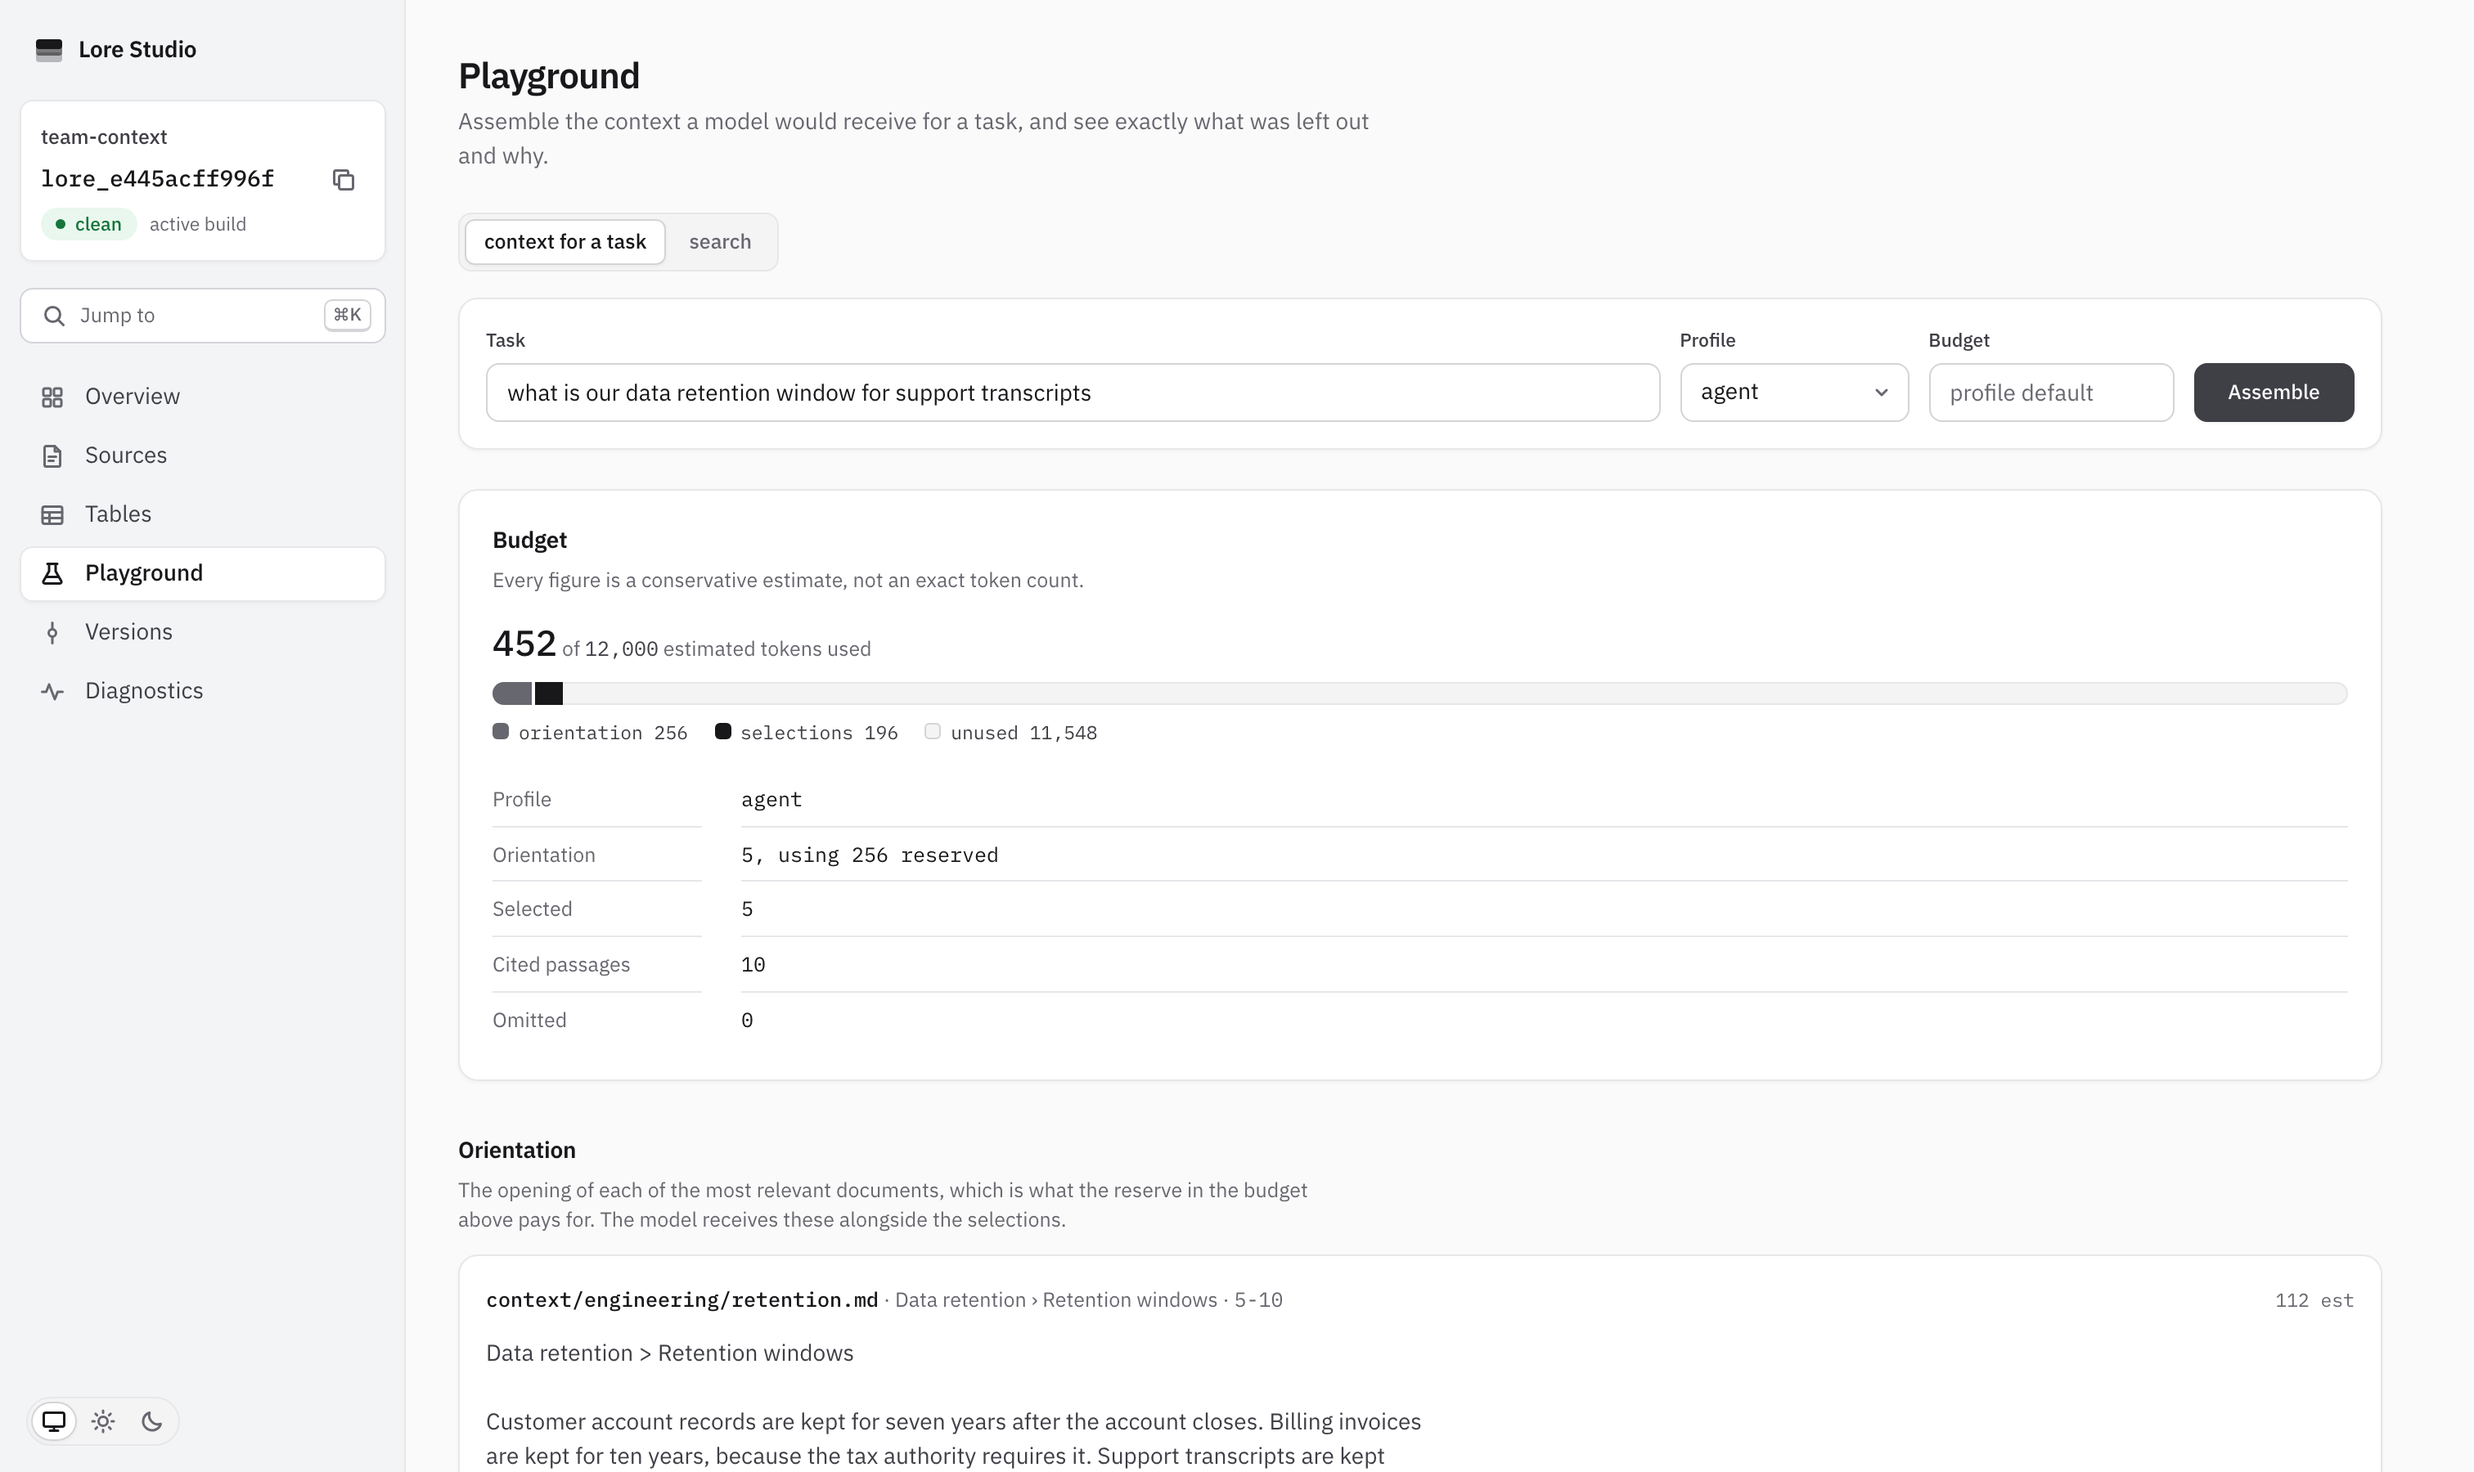
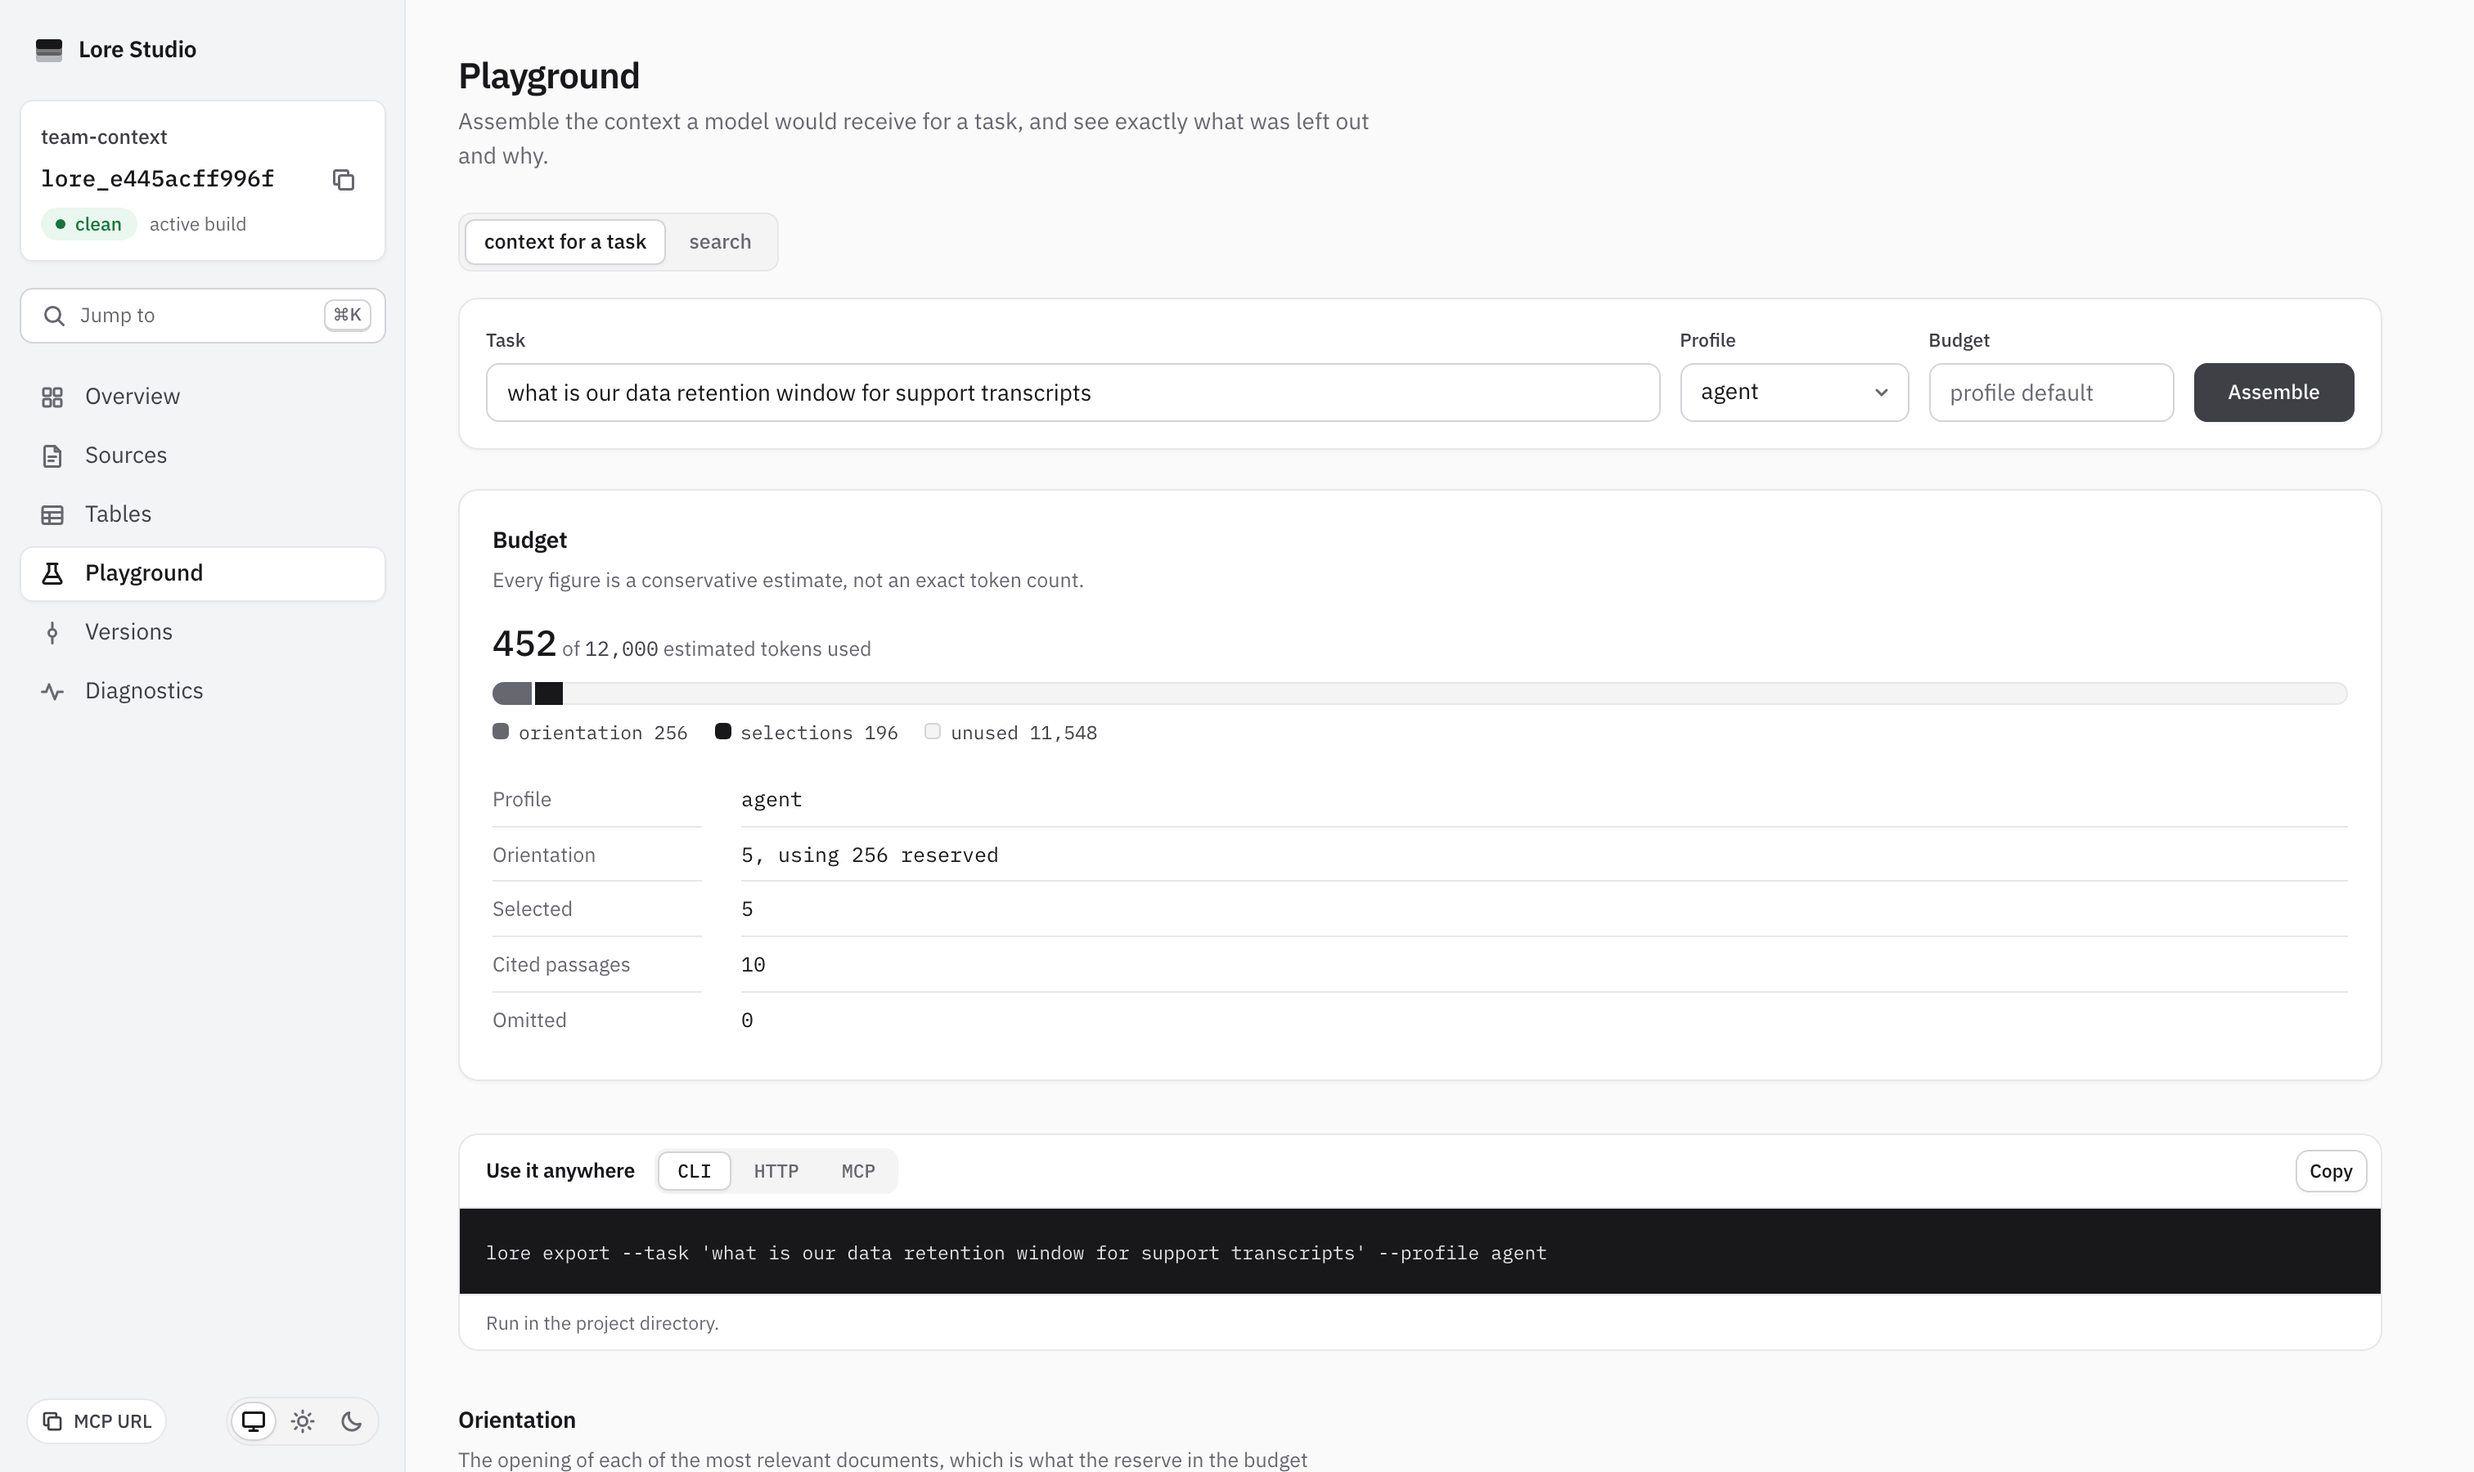
Document the Studio launchpad and retake captures
- the CSS budget rises from 40 to 48 kB for three new surfaces with no
  new dependency, recorded beside the number
- captures add the source reader and show the request equivalents

Changed region(s): [[0.1865, 0.7778, 0.9636, 0.9333], [0.1865, 0.9644, 0.5595, 1.0], [0.0311, 0.9644, 0.0622, 0.9956]]

diff --git a/DESIGN.md b/DESIGN.md
@@ -77,6 +77,11 @@ typography:
     fontFamily: "IBM Plex Sans, ui-sans-serif, system-ui, sans-serif"
     fontSize: "16px"
     fontWeight: 400
+  mono-display:
+    fontFamily: "IBM Plex Mono, ui-monospace, SF Mono, Menlo, Consolas, monospace"
+    fontSize: "26px"
+    fontWeight: 500
+    letterSpacing: "-0.02em"
   mono-id:
     fontFamily: "IBM Plex Mono, ui-monospace, SF Mono, Menlo, Consolas, monospace"
     fontSize: "14px"
@@ -342,13 +347,22 @@ Sits in a 12px framed box. 36px rows with hairline rules, a 34px Sunken Tint hea
 Opened with Cmd-K or Ctrl-K. A 640px sheet, 14vh from the top, over the Scrim, with the overlay shadow. A 52px search row at 16px, grouped options at 38px with a 16px icon, label and mono detail; the highlighted option takes Selection Wash. A Sunken Tint footer carries key hints. The scrim fades in 160ms and the sheet rises 6px from 0.985 scale in 180ms.
 
 ### Budget Tape (signature)
-Playground's accounting drawn to scale: a 10px pill track, reserved tokens in Pewter, selected in Graphite, free space as Raised Tint with an inset line, segments split by a 2px surface gap, and the cut marked with a 1.5px dashed Stale Amber border. A mono legend with the exact figures sits beneath. Built from elements, not SVG.
+Playground's accounting drawn to scale, under a summary line that is the one place the budget and the tokens used are written (used at 22px mono). A 14px pill track, reserved tokens in Pewter, selected in Graphite, free space as Raised Tint with an inset line, segments split by a 2px surface gap, and the cut marked with a 1.5px dashed Stale Amber border. A mono legend with the exact figures sits beneath. Built from elements, not SVG.
 
 ### Confirmation
 Inline under the version it acts on: Clean Sheet, 1px ink frame, 12px radius, overlay shadow, a mono heading naming the build, the plan, and the actions behind a hairline. It enters by moving 4px over 200ms and never fades.
 
 ### Citation
-Path in mono 500, heading path in muted sans, range in muted tabular mono, real-space separators. Inline layout so it wraps on the baseline. The copy button appears on hover or focus, and always on touch.
+Path in mono 500, heading path in muted sans, range in muted tabular mono, real-space separators. Inline layout so it wraps on the baseline. The copy button appears on hover or focus, and always on touch. When the locator names an artifact, the path is a link to Sources with the cited lines marked, underlined in the border tone and in full ink on hover. It never links to the source already open.
+
+### Use It Anywhere (signature)
+Every request Studio makes, shown as the same request three ways: a `lore` CLI line, a `curl` call against this server, and the MCP `tools/call` params. A framed panel with a mono tab strip (CLI, HTTP, MCP), one Copy action, and a code well that is dark in both themes (`--code-bg`), because a command reads as a terminal line. A form with no exact equivalent is left out rather than approximated: table queries and source reads have no CLI tab. The code well is focusable, so a long line can be scrolled by keyboard.
+
+### Source Reader
+The stored text of one file, as a model reads it. A framed, focusable, 480px-tall scroller with a 4.5ch line-number gutter split by a hairline; each line is a two-column row so wrapped text stays beside its number. Cited lines take the Stale Amber wash with an amber number. The gutter is `user-select: none`, so a copied passage is the document.
+
+### Connect Panel and Next Steps
+Overview's launchpad. Next steps are three columns in one panel split by hairlines, never three cards, each a title, one sentence and a small action; the connect step carries a live count badge. The Connect panel lists the MCP and HTTP endpoints as copyable values (no `$` prompt) and `lore mcp` as a command, then one row per detected client with its state badge and a `lore connect` command only where it would do something.
 
 ## Do's and Don'ts
 

diff --git a/docs/studio-tour.md b/docs/studio-tour.md
@@ -18,8 +18,11 @@ For the design rules and accessibility review, see
 
 ## Overview
 
-The active build and source state lead the page. The rest is evidence about a
-sealed build.
+The active build and source state lead the page. Three next steps follow: try a
+task, connect a client, and preview the next build. The Connect panel lists the
+MCP and HTTP endpoints this process serves and one `lore connect` command for
+each installed client that is not yet connected. The MCP URL is also one click
+away in the sidebar.
 
 ![Studio Overview](images/studio-overview.png)
 
@@ -32,10 +35,19 @@ no parser could read are different decisions, and both are named.
 
 ![Studio Sources, showing what was excluded and why](images/studio-excluded.png)
 
+Choosing a file shows its **stored text**: exactly what the build holds and
+what `lore_read_source` returns to a model, with line numbers. Every citation
+elsewhere in Studio links here, with its lines marked.
+
+![Studio source reader, with a cited passage marked](images/studio-reader.png)
+
 ## Context Playground
 
 The passages a model would receive for a task, each with provenance, and every
-omission with the reason it was left out.
+omission with the reason it was left out. **Use it anywhere** shows the same
+request as a `lore export` command, a `curl` call and an MCP `tools/call`, so
+a request tried here can be pasted into a terminal, a script or an agent. The
+Tables console and the source reader offer the same panel.
 
 ![Studio Context Playground](images/studio-playground.png)
 

diff --git a/README.md b/README.md
@@ -128,14 +128,17 @@ path.
 `lore dev` prints a Studio URL: six routes served from static files by the same process that
 serves the API, on the same port, with no toolchain and no network. A sidebar names the active
 build and whether its sources are still fresh; light and dark themes follow your system unless
-you pick one.
+you pick one. Overview is the starting point: the MCP and HTTP endpoints to give your agent, and
+the `lore connect` command for each client installed on your machine.
 
 ![Lore Studio Overview](docs/images/studio-overview.png)
 
 The Playground answers the question that matters most before you trust any of this: **what would
 a model actually receive for this task, and what was left out.** Every passage carries its
 provenance, every omission carries its reason, and a ranking heuristic is labelled as one
-rather than presented as a score of truth.
+rather than presented as a score of truth. Every citation opens the stored text with its lines
+marked, and every request can be copied as the equivalent `lore` command, `curl` call or MCP
+tool call, so nothing tried in Studio has to be retyped to be used elsewhere.
 
 ![Lore Studio Context Playground](docs/images/studio-playground.png)
 

diff --git a/.changeset/studio-launchpad.md b/.changeset/studio-launchpad.md
@@ -1,0 +1,8 @@
+---
+'@lorepack/cli': minor
+---
+
+Lore Studio is now a launchpad for using the build. Overview lists the MCP and HTTP endpoints
+and a `lore connect` command for each installed client; every Playground run, search and SQL
+query can be copied as the equivalent `lore` command, `curl` call or MCP tool call; and every
+citation opens the stored text of its source with the cited lines marked.
